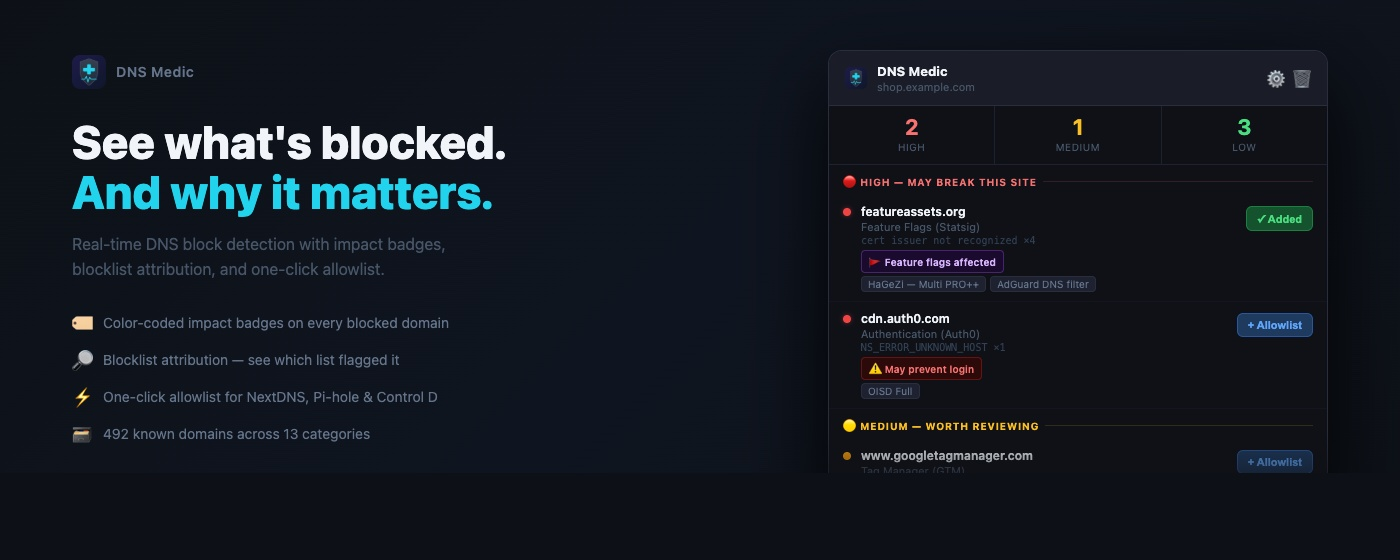
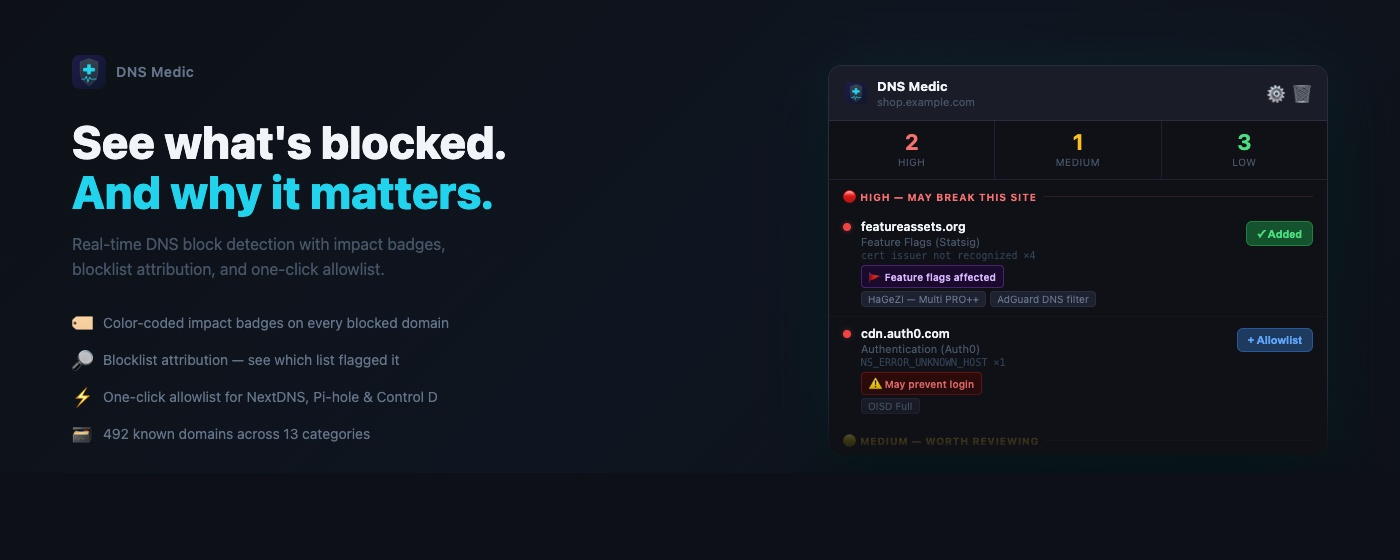
fix: marquee popup shadow + breathing room — right-wrap container, reduced popup height

diff --git a/store/marquee-render.html b/store/marquee-render.html
@@ -33,12 +33,19 @@ body {
 .b-purple { background:#1a0a2d; border:1px solid #a855f766; color:#d8b4fe; }
 
 /* ── Right popup ── */
-.right {
+.right-wrap {
   flex:0 0 500px;
-  height:460px;
+  display:flex;
+  align-items:center;
+  justify-content:flex-end;
+  padding-bottom:40px;
+}
+.right {
+  width:500px;
+  height:390px;
   position:relative;
   border-radius:14px;
-  box-shadow: 0 32px 80px rgba(0,0,0,0.9);
+  box-shadow: 0 8px 60px rgba(34,211,238,0.12), 0 24px 64px rgba(0,0,0,0.9);
   overflow:hidden;
 }
 .popup {
@@ -128,6 +135,7 @@ body {
   </div>
 </div>
 
+<div class="right-wrap">
 <div class="right">
   <div class="popup">
     <div class="ph">
@@ -172,18 +180,9 @@ body {
       </div>
       <button class="abtn">+ Allowlist</button>
     </div>
-    <div class="shdr low">&#128994; Low &mdash; Safe to ignore</div>
-    <div class="brow">
-      <div class="dot L"></div>
-      <div class="bi">
-        <div class="bd">www.google-analytics.com</div>
-        <div class="bl">Analytics (Google Analytics)</div>
-        <div class="bm">NS_ERROR_UNKNOWN_HOST &times;6</div>
-      </div>
-      <button class="abtn">+ Allowlist</button>
-    </div>
   </div>
   <div class="fade"></div>
+</div>
 </div>
 
 <script>
